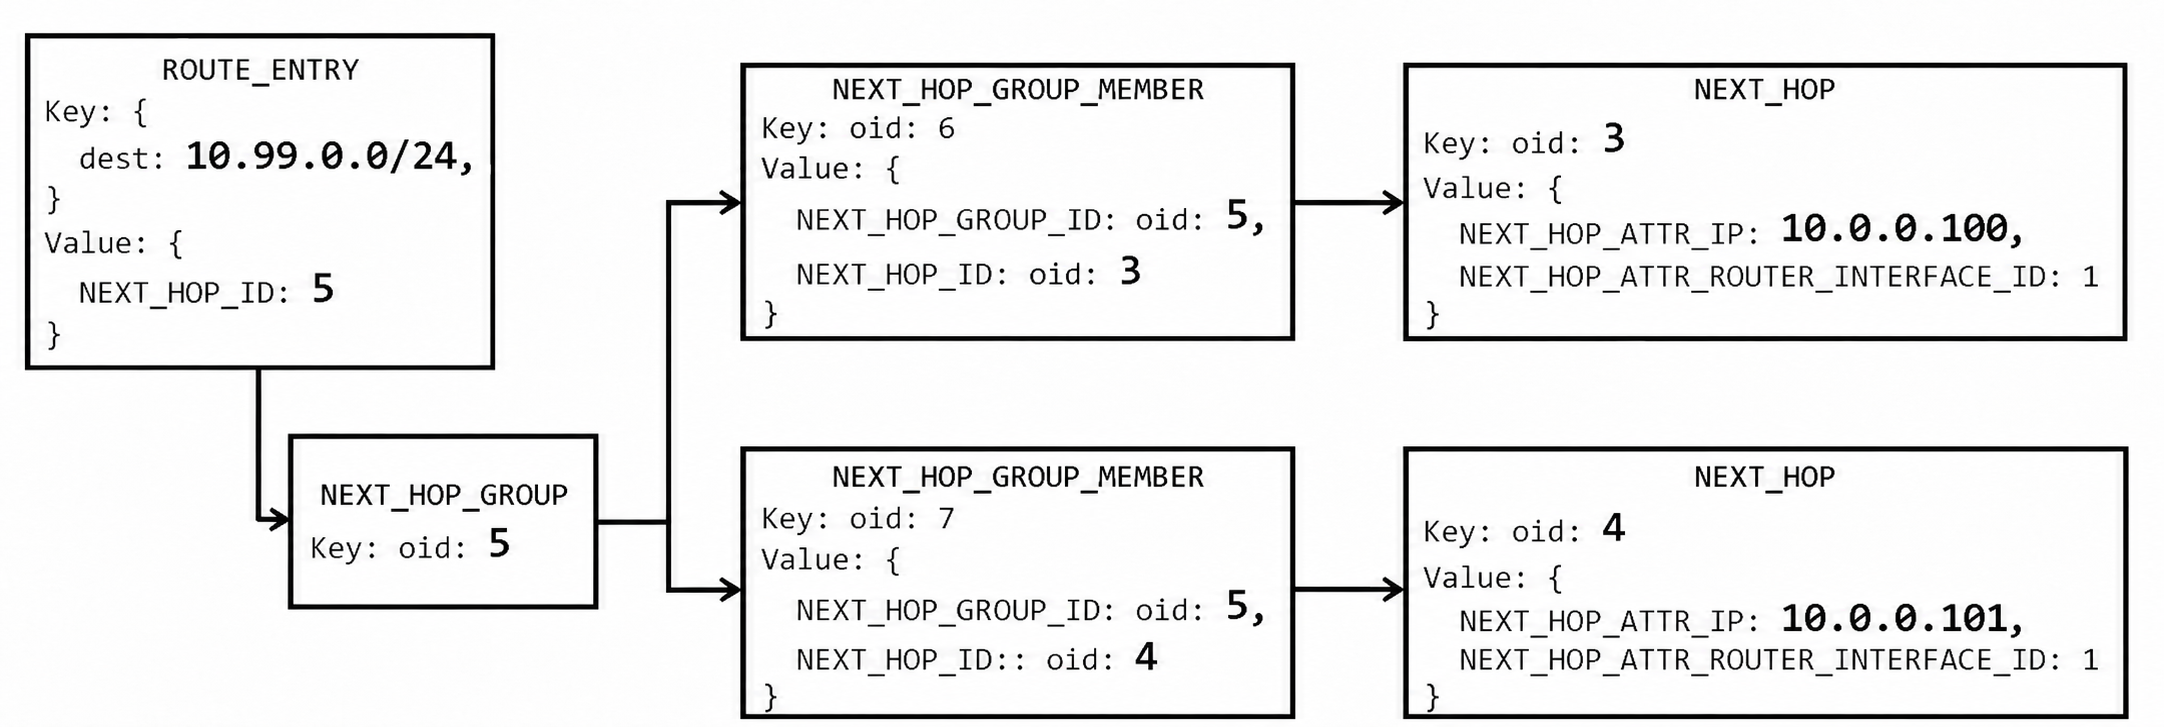
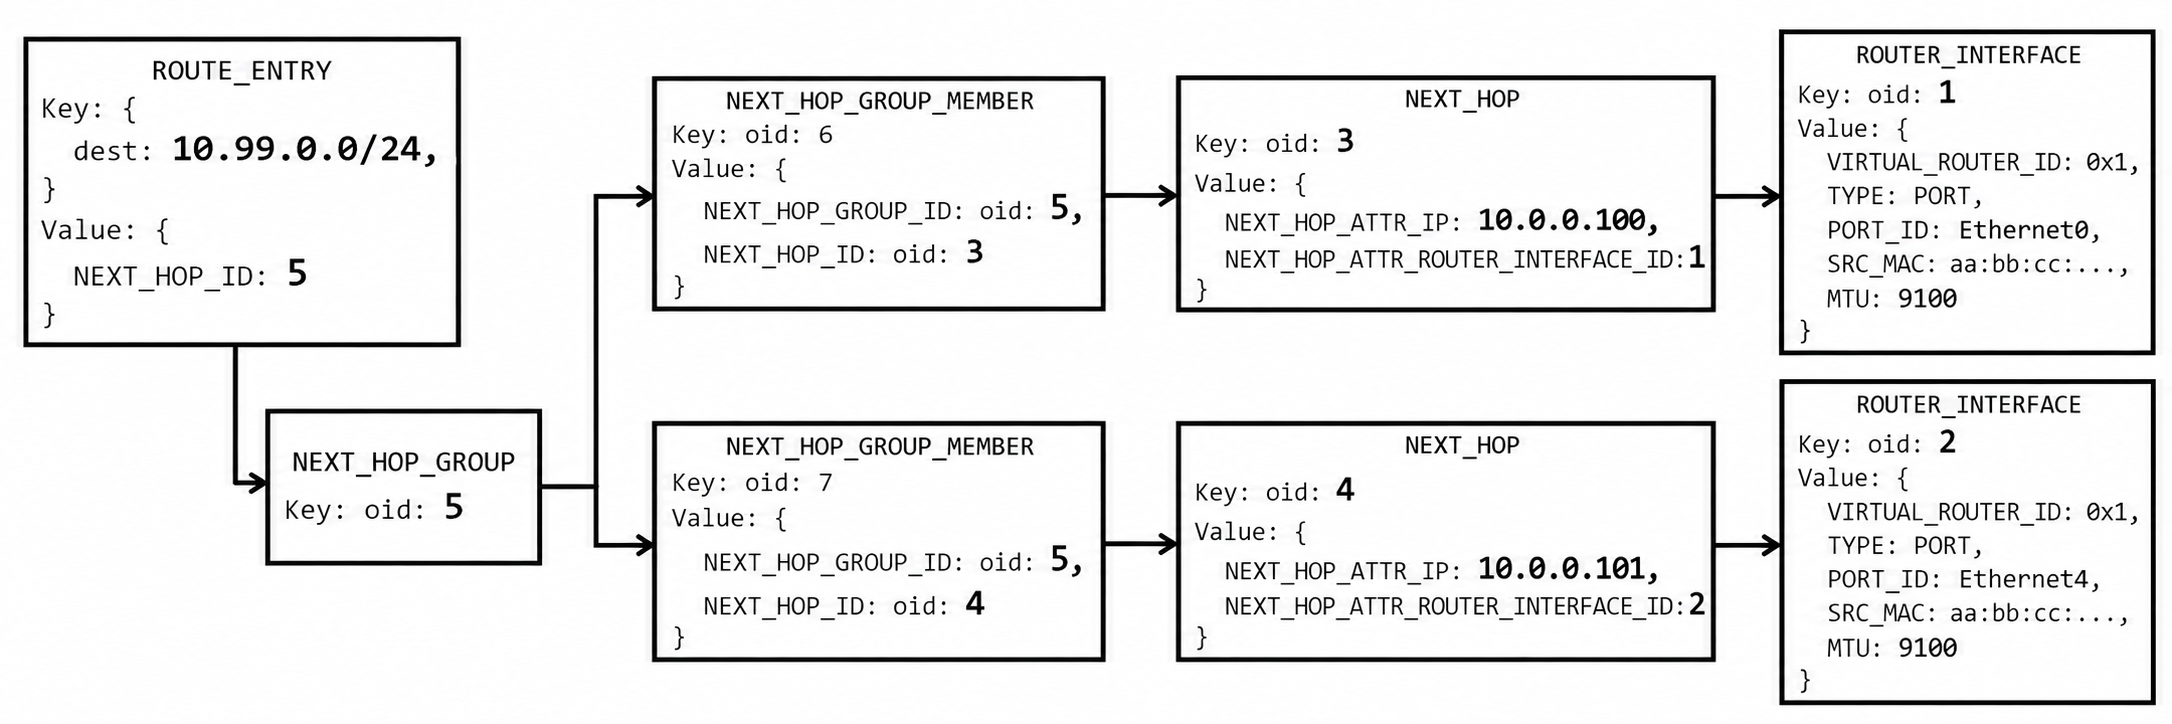
updated pic

Changed region(s): [[0.0, 0.0304, 1.0, 1.0], [0.0, 0.2431, 0.1548, 0.4254], [0.7431, 0.6989, 0.774, 0.7293]]

diff --git a/docs/19_load_balancing.md b/docs/19_load_balancing.md
@@ -15,7 +15,7 @@ Three SAI objects form the foundation of multi-path forwarding in SONiC:
 
 - **Next-hop group member** — a join object that attaches one next hop to a group. It stores two references: the group's OID (Object Identifier) and the next hop's OID. Adding or removing a member is how SONiC tells the ASIC to add or remove a path from the group.
 
-<img src="../pics/next-hop-group-overview.png" alt="Next-hop group object relationships: route entry, next-hop group, next-hop group members, and next hops" width="900">
+<img src="../pics/next-hop-group-overview.png" alt="segment" width="1000">
 
 The creation order matters: next hops must exist before members can reference them, and the group must exist before members can be added to it. For the full SAI object lifecycle see [Parent and Member](14_sai_object_model.md#parent-and-member).
 
